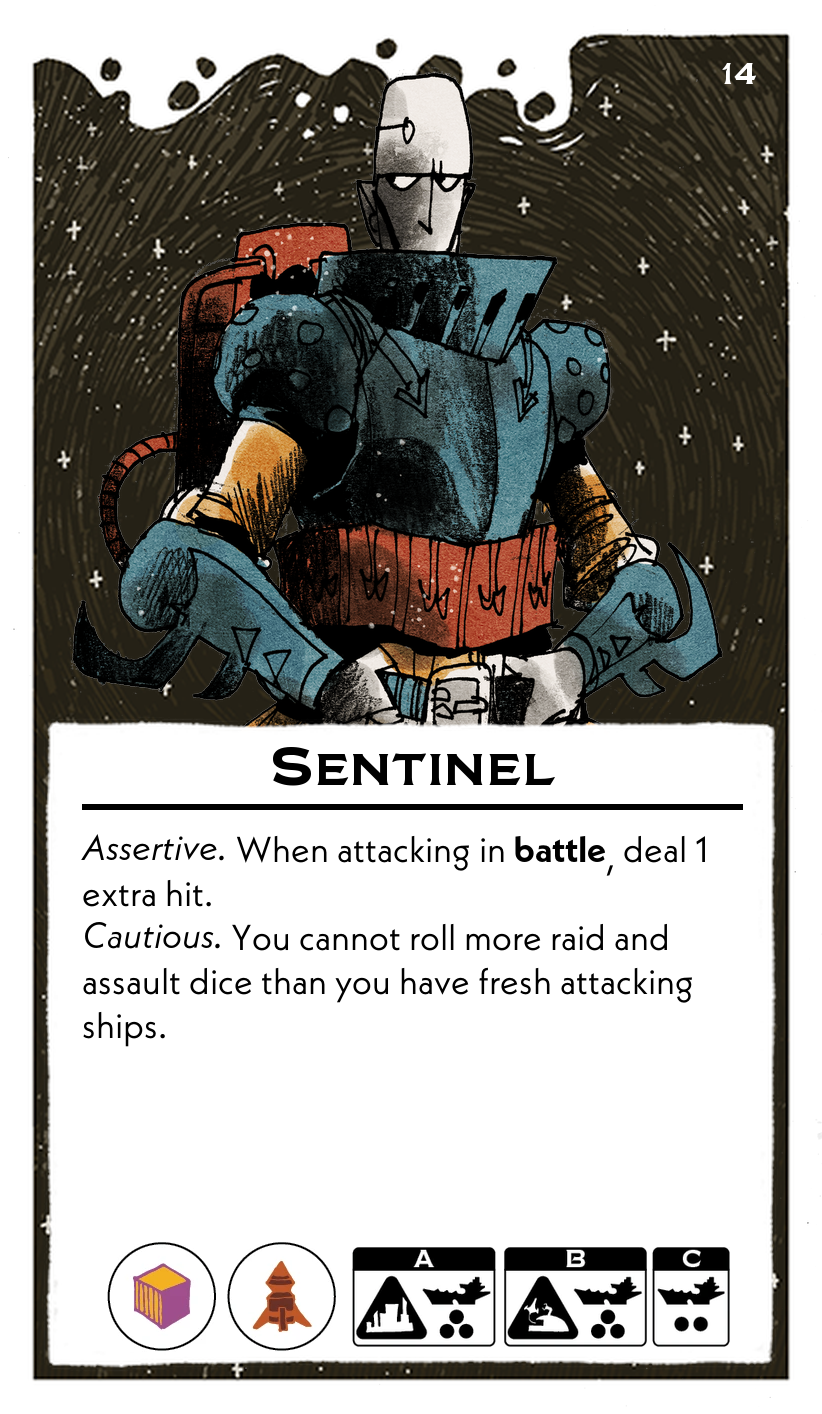
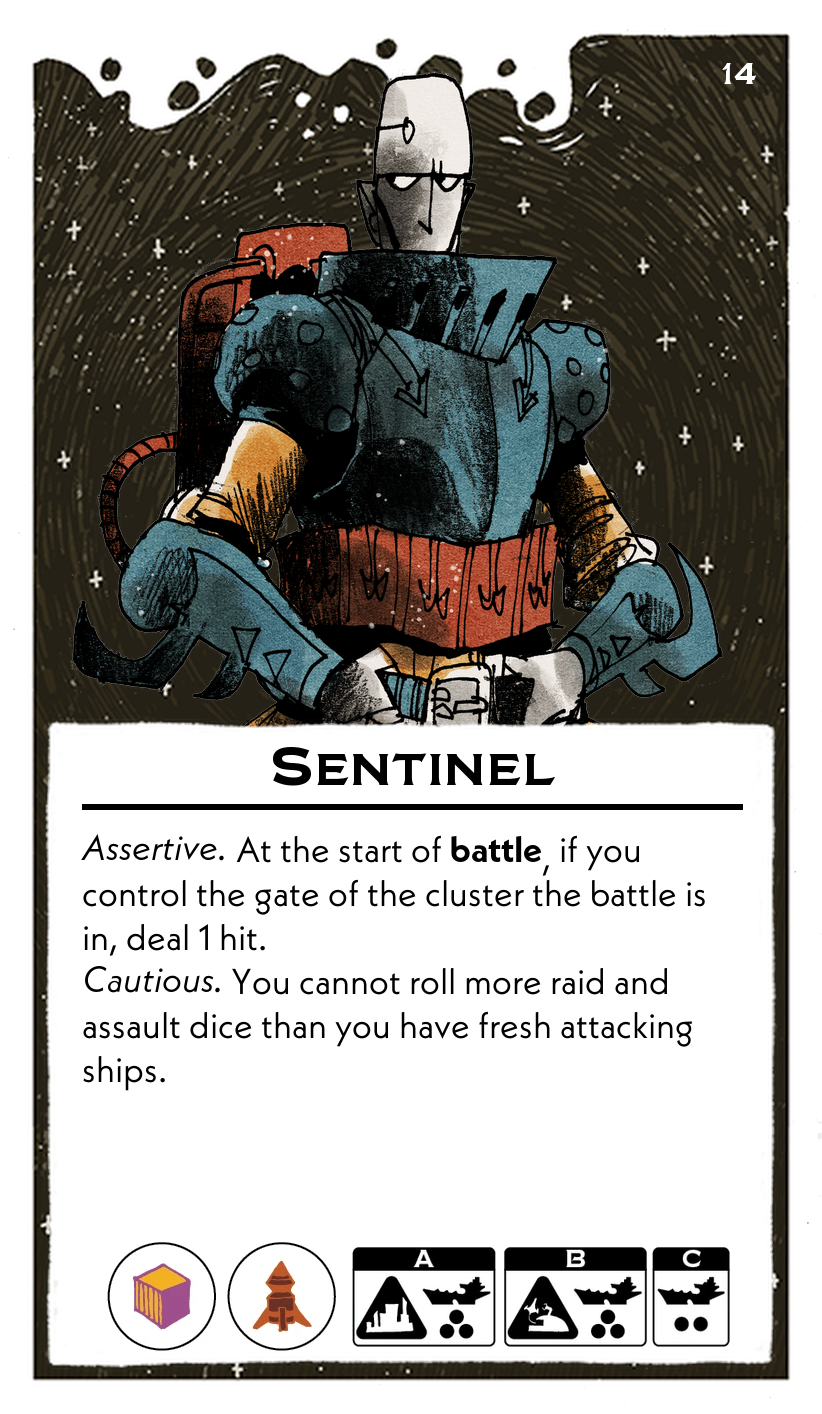
seer

Changed region(s): [[0.0912, 0.5912, 0.8516, 0.7779]]

diff --git a/scripts/leadersFormatted.py b/scripts/leadersFormatted.py
@@ -208,7 +208,7 @@ leaders = [
     {
         "name": "Sentinel",
         "abilities": (
-            "*Assertive.* When attacking in **battle**, deal 1 extra hit.\n"
+            "*Assertive.* At the start of **battle**, if you control the gate of the cluster the battle is in, deal 1 hit.\n"
             "*Cautious.* You cannot roll more raid and assault dice than you have fresh attacking ships."
         ),
         "resources": ["Material", "Weapon"],
